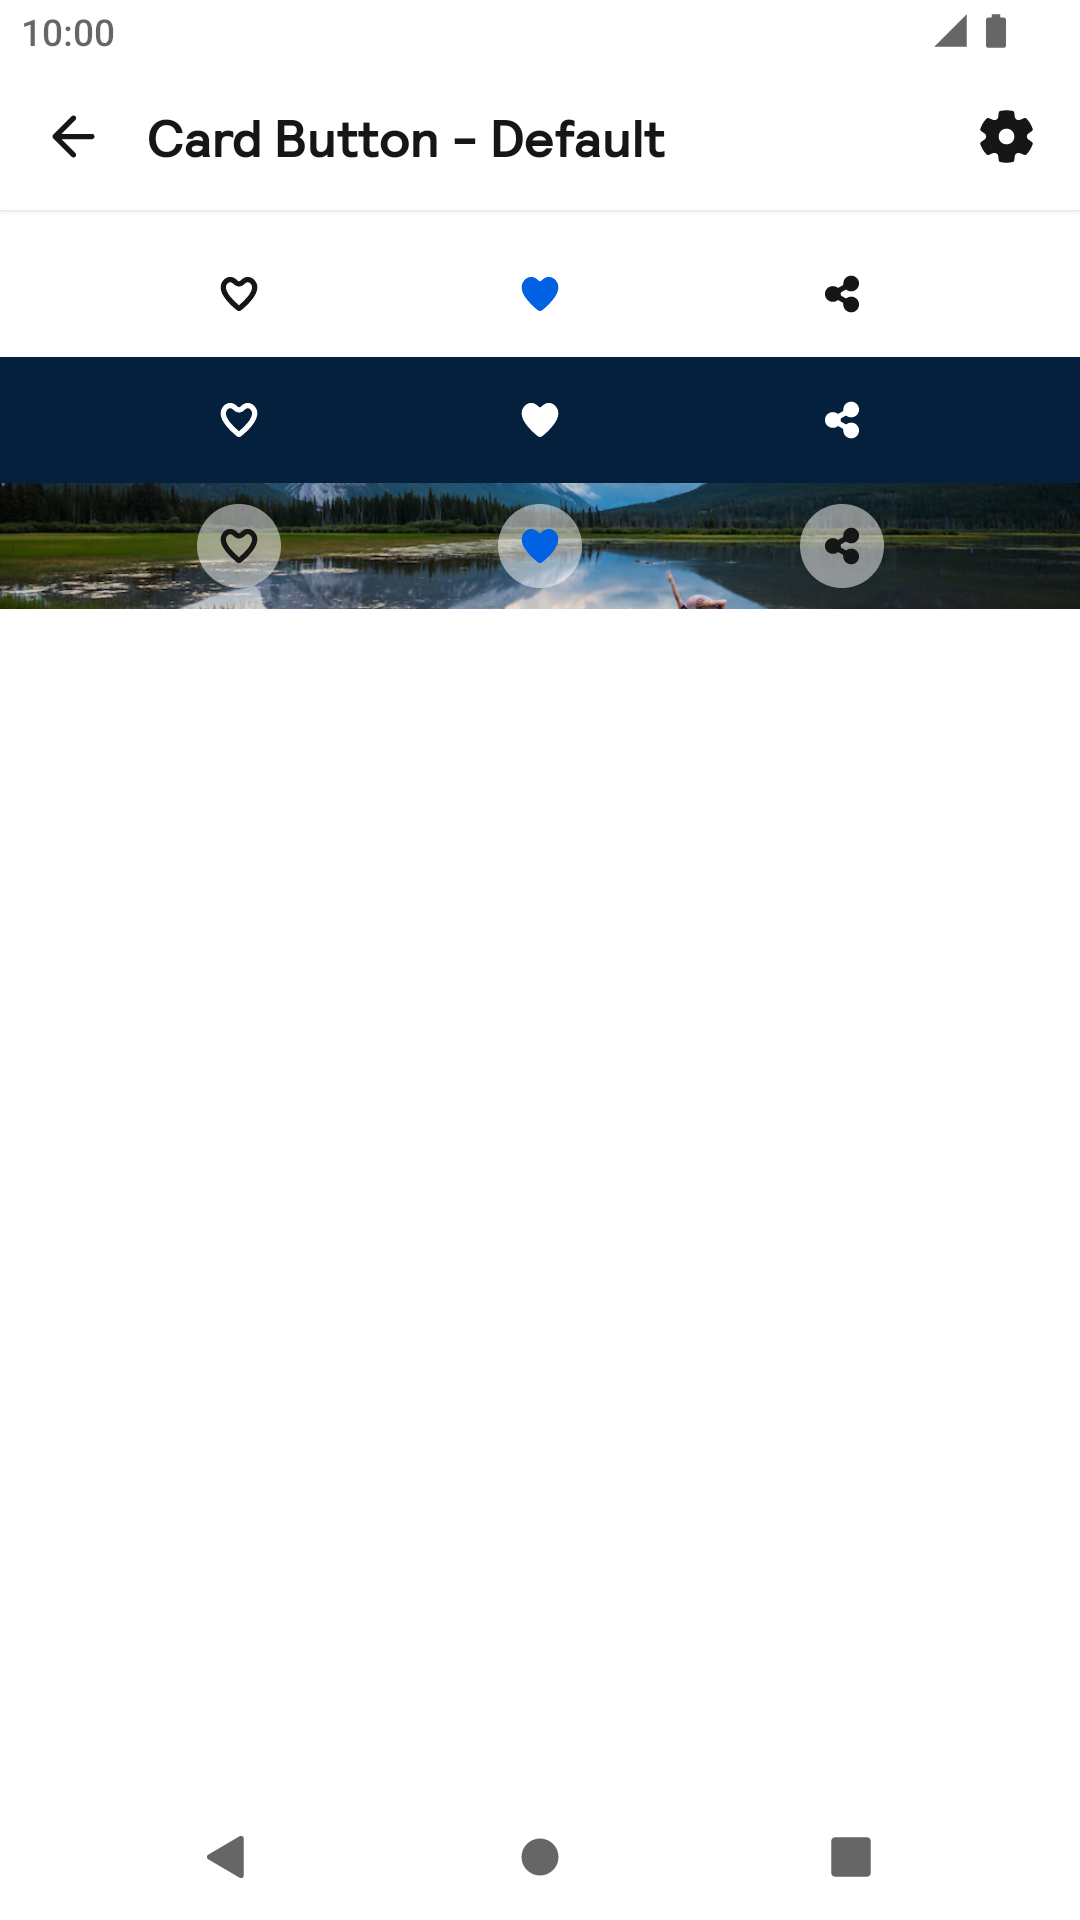
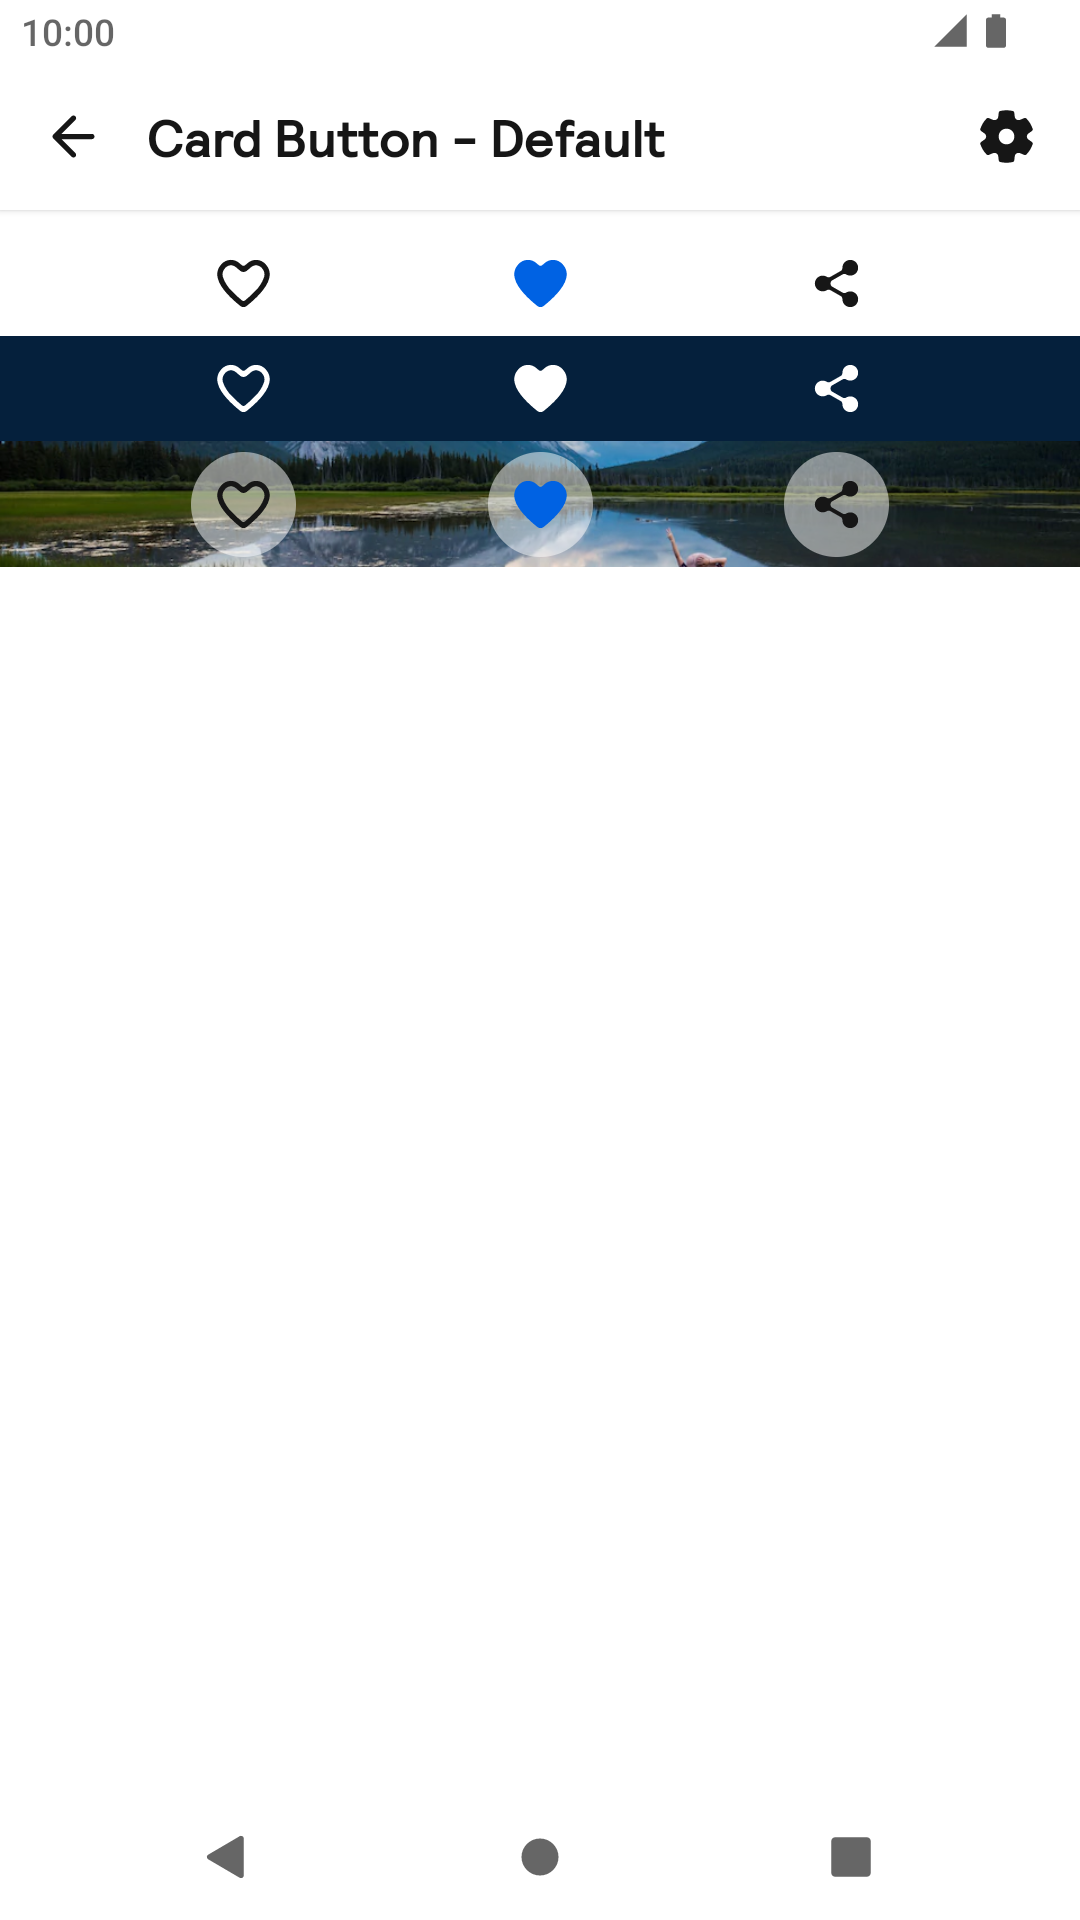
PAN-4327: Fix card button padding issue.

Changed region(s): [[0.0, 0.125, 1.0, 0.3438]]

diff --git a/backpack-compose/src/main/kotlin/net/skyscanner/backpack/compose/cardbutton/internal/BpkCardButtonImpl.kt b/backpack-compose/src/main/kotlin/net/skyscanner/backpack/compose/cardbutton/internal/BpkCardButtonImpl.kt
@@ -97,42 +97,37 @@ internal fun BpkSaveCardButtonImpl(
         animationSpec = tween(300),
     )
     Box(
-        modifier = modifier.size(BpkSpacing.Xxl + BpkSpacing.Md),
+        modifier = modifier
+            .clip(shape = CircleShape)
+            .size(if (size == BpkCardButtonSize.Default) BpkSpacing.Xxl else BpkSpacing.Xl)
+            .background(
+                color = when (style) {
+                    BpkCardButtonStyle.Contained -> BpkTheme.colors.surfaceDefault.copy(alpha = 0.5F)
+                    else -> Color.Transparent
+                },
+            )
+            .semantics { this.contentDescription = contentDescription }
+            .then(
+                if (state == BpkCardButtonState.Rest) {
+                    Modifier.toggleable(
+                        value = checked,
+                        role = Role.Switch,
+                        onValueChange = { checked ->
+                            if (checked) state = BpkCardButtonState.Transition
+                            onCheckedChange(checked)
+                        },
+                    )
+                } else Modifier,
+            ),
         contentAlignment = Alignment.Center,
     ) {
-        Box(
-            modifier = Modifier
-                .clip(shape = CircleShape)
-                .size(if (size == BpkCardButtonSize.Large) BpkSpacing.Xxl else BpkSpacing.Xl)
-                .background(
-                    color = when (style) {
-                        BpkCardButtonStyle.Contained -> BpkTheme.colors.surfaceDefault.copy(alpha = 0.5F)
-                        else -> Color.Transparent
-                    },
-                )
-                .semantics { this.contentDescription = contentDescription }
-                .then(
-                    if (state == BpkCardButtonState.Rest) {
-                        Modifier.toggleable(
-                            value = checked,
-                            role = Role.Switch,
-                            onValueChange = { checked ->
-                                if (checked) state = BpkCardButtonState.Transition
-                                onCheckedChange(checked)
-                            },
-                        )
-                    } else Modifier,
-                ),
-            contentAlignment = Alignment.Center,
-        ) {
-            Box(modifier = Modifier.scale(scaleAnimation.value)) {
-                BpkIcon(
-                    icon = if (checked) BpkIcon.Heart else BpkIcon.HeartOutline,
-                    contentDescription = null,
-                    size = if (size == BpkCardButtonSize.Large) BpkIconSize.Large else BpkIconSize.Small,
-                    tint = colorAnimation,
-                )
-            }
+        Box(modifier = Modifier.scale(scaleAnimation.value)) {
+            BpkIcon(
+                icon = if (checked) BpkIcon.Heart else BpkIcon.HeartOutline,
+                contentDescription = null,
+                size = if (size == BpkCardButtonSize.Default) BpkIconSize.Large else BpkIconSize.Small,
+                tint = colorAnimation,
+            )
         }
     }
 }
@@ -146,32 +141,27 @@ internal fun BpkShareCardButtonImpl(
     modifier: Modifier = Modifier,
 ) {
     Box(
-        modifier = modifier.size(BpkSpacing.Xxl + BpkSpacing.Md),
-        contentAlignment = Alignment.Center,
-    ) {
-        Box(
-            modifier = Modifier
-                .clip(shape = CircleShape)
-                .size(if (size == BpkCardButtonSize.Large) BpkSpacing.Xxl else BpkSpacing.Xl)
-                .background(
-                    color = when (style) {
-                        BpkCardButtonStyle.Contained -> BpkTheme.colors.surfaceDefault.copy(alpha = 0.5F)
-                        else -> BpkTheme.colors.textOnDark.copy(alpha = 0.0F)
-                    },
-                )
-                .clickableWithRipple(onClick = onClick),
-            contentAlignment = Alignment.Center,
-        ) {
-            BpkIcon(
-                modifier = Modifier,
-                icon = BpkIcon.ShareAndroid,
-                contentDescription = contentDescription,
-                size = if (size == BpkCardButtonSize.Large) BpkIconSize.Large else BpkIconSize.Small,
-                tint = when (style) {
-                    BpkCardButtonStyle.OnDark -> BpkTheme.colors.textOnDark
-                    else -> BpkTheme.colors.textPrimary
+        modifier = modifier
+            .clip(shape = CircleShape)
+            .size(if (size == BpkCardButtonSize.Default) BpkSpacing.Xxl else BpkSpacing.Xl)
+            .background(
+                color = when (style) {
+                    BpkCardButtonStyle.Contained -> BpkTheme.colors.surfaceDefault.copy(alpha = 0.5F)
+                    else -> BpkTheme.colors.textOnDark.copy(alpha = 0.0F)
                 },
             )
-        }
+            .clickableWithRipple(onClick = onClick),
+        contentAlignment = Alignment.Center,
+    ) {
+        BpkIcon(
+            modifier = Modifier,
+            icon = BpkIcon.ShareAndroid,
+            contentDescription = contentDescription,
+            size = if (size == BpkCardButtonSize.Default) BpkIconSize.Large else BpkIconSize.Small,
+            tint = when (style) {
+                BpkCardButtonStyle.OnDark -> BpkTheme.colors.textOnDark
+                else -> BpkTheme.colors.textPrimary
+            },
+        )
     }
 }

diff --git a/app/src/main/java/net/skyscanner/backpack/demo/compose/CardButtonsStory.kt b/app/src/main/java/net/skyscanner/backpack/demo/compose/CardButtonsStory.kt
@@ -33,6 +33,7 @@ import androidx.compose.runtime.getValue
 import androidx.compose.runtime.mutableStateOf
 import androidx.compose.runtime.remember
 import androidx.compose.runtime.setValue
+import androidx.compose.ui.Alignment
 import androidx.compose.ui.Modifier
 import androidx.compose.ui.layout.ContentScale
 import androidx.compose.ui.res.painterResource
@@ -55,9 +56,9 @@ fun CardButtonStoryDefault(modifier: Modifier = Modifier) =
 
 @Composable
 @CardButtonComponent
-@ComposeStory("Large")
+@ComposeStory("Small")
 fun CardButtonStoryLarge(modifier: Modifier = Modifier) =
-    CardButtonsDemo(BpkCardButtonSize.Large, modifier)
+    CardButtonsDemo(BpkCardButtonSize.Small, modifier)
 
 @Composable
 private fun CardButtonsDemo(
@@ -90,7 +91,7 @@ private fun CardButtonsDemo(
             }
         }
         item {
-            Box(modifier = Modifier.height(BpkSpacing.Xxl + BpkSpacing.Md)) {
+            Box(modifier = Modifier.height(BpkSpacing.Xxl + BpkSpacing.Md), contentAlignment = Alignment.Center) {
                 Image(
                     modifier = Modifier.fillMaxWidth(),
                     painter = painterResource(id = R.drawable.canadian_rockies_canada),

diff --git a/backpack-compose/src/main/kotlin/net/skyscanner/backpack/compose/cardbutton/BpkCardButton.kt b/backpack-compose/src/main/kotlin/net/skyscanner/backpack/compose/cardbutton/BpkCardButton.kt
@@ -31,7 +31,7 @@ enum class BpkCardButtonStyle {
 
 enum class BpkCardButtonSize {
     Default,
-    Large,
+    Small,
 }
 
 @Composable

diff --git a/docs/compose/CardButton/README.md b/docs/compose/CardButton/README.md
@@ -10,11 +10,11 @@
 |--------------------------------------------------------------------------------------------------------------------------------------------------------------------------|-----------------------------------------------------------------------------------------------------------------------------------------------------------------------------------------|
 | <img src="https://raw.githubusercontent.com/Skyscanner/backpack-android/main/docs/compose/CardButton/screenshots/default.png" alt="Card Button component" width="375" /> | <img src="https://raw.githubusercontent.com/Skyscanner/backpack-android/main/docs/compose/CardButton/screenshots/default_dm.png" alt="Card Button component - dark mode" width="375" /> |
 
-## Large
+## Small
 
 | Day                                                                                                                                                                          | Night                                                                                                                                                                                       |
 |------------------------------------------------------------------------------------------------------------------------------------------------------------------------------|---------------------------------------------------------------------------------------------------------------------------------------------------------------------------------------------|
-| <img src="https://raw.githubusercontent.com/Skyscanner/backpack-android/main/docs/compose/CardButton/screenshots/large.png" alt="Large Card Button component" width="375" /> | <img src="https://raw.githubusercontent.com/Skyscanner/backpack-android/main/docs/compose/CardButton/screenshots/large_dm.png" alt="Large Card Button component - dark mode" width="375" /> |
+| <img src="https://raw.githubusercontent.com/Skyscanner/backpack-android/main/docs/compose/CardButton/screenshots/small.png" alt="Small Card Button component" width="375" /> | <img src="https://raw.githubusercontent.com/Skyscanner/backpack-android/main/docs/compose/CardButton/screenshots/small_dm.png" alt="Small Card Button component - dark mode" width="375" /> |
 
 ## Installation
 
